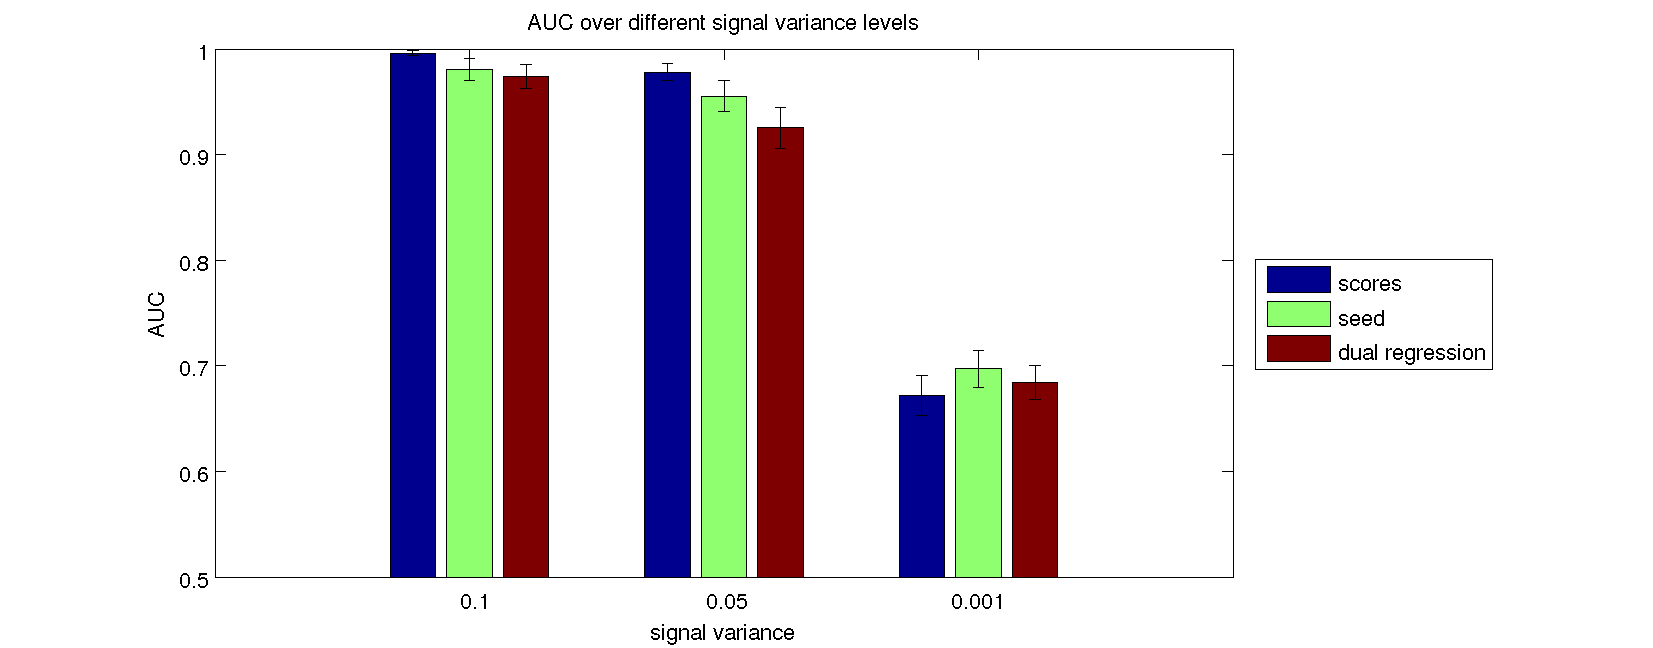
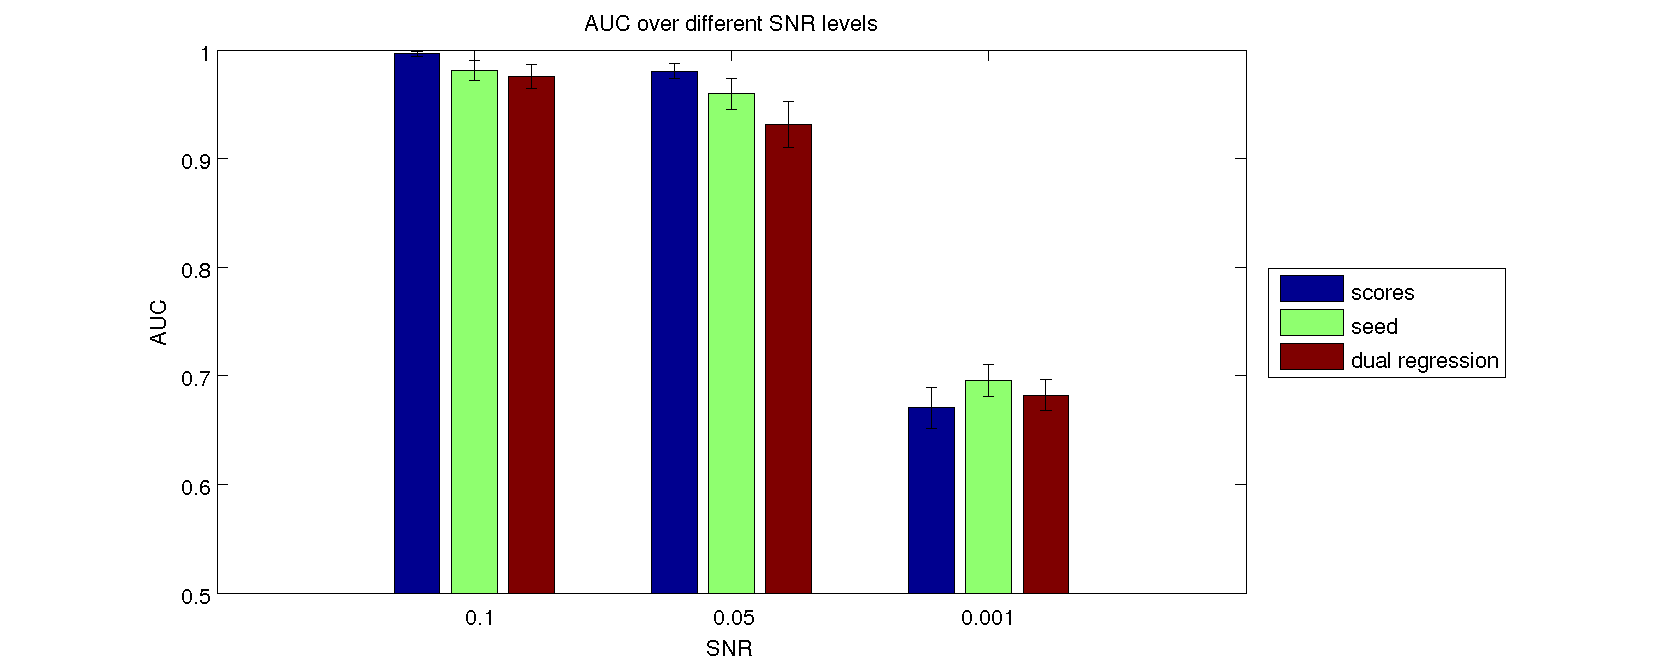
shifted priors right

diff --git a/Scores/Simulation/matlab_noise.m b/Scores/Simulation/matlab_noise.m
@@ -185,7 +185,7 @@ for n_id = 1:3
     xlabel('FPR');
     % labels
     labels = {sprintf('scores (%.3f)', scores_auc), sprintf('seed (%.3f)', seed_auc), sprintf('dual regression (%.3f)', dureg_auc)};
-    title(sprintf('Signal variance %.3f', noise));
+    title(sprintf('SNR %.3f', noise));
     legend(labels, 'Location', 'southeast');
 end
 
@@ -199,13 +199,29 @@ auc_all = [mean(scores_auc_store, 2), mean(seed_auc_store, 2), mean(dureg_auc_st
 std_all = [std(scores_auc_store,[], 2), std(seed_auc_store,[], 2), std(dureg_auc_store,[], 2)];
 barwitherr(std_all, auc_all);
 legend({'scores', 'seed', 'dual regression'}, 'Location', 'eastoutside');
-title('AUC over different signal variance levels');
+title('AUC over different SNR levels');
 set(gca,'xlim',[0 4],'ylim', [0.5 1], 'XTickLabel', cellstr(num2str(noise_levels')));
-xlabel('signal variance');
+xlabel('SNR');
 ylabel('AUC');
 
 set(f_auc, 'PaperPositionMode','auto');
 print(f_auc, [fig_path filesep 'auc_overview.png'], '-dpng');
+
+%% Mass-Univariate Ttest of AUC
+[t1, p1, m1, s1, d1] = niak_ttest(scores_auc_store', seed_auc_store', true);
+% 2 scores-dureg
+[t2, p2, m2, s2, d2] = niak_ttest(scores_auc_store', dureg_auc_store', true);
+% 3 seed-dureg
+[t3, p3, m3, s3, d3] = niak_ttest(seed_auc_store', dureg_auc_store', true);
+
+% Add the pooled variance
+sp1 = ( (( n_perm - 1) .* std(scores_auc_store')) + (( n_perm - 1) .* std(seed_auc_store'))) / (n_perm + n_perm -2);
+sp2 = ( (( n_perm - 1) .* std(scores_auc_store')) + (( n_perm - 1) .* std(dureg_auc_store'))) / (n_perm + n_perm -2);
+sp3 = ( (( n_perm - 1) .* std(seed_auc_store')) + (( n_perm - 1) .* std(dureg_auc_store'))) / (n_perm + n_perm -2);
+% Compute Cohensd
+chd1 = m1 ./ sp1;
+chd2 = m2 ./ sp2;
+chd3 = m3 ./ sp3;
 
 %% Show the maps for the different methods and noise levels
 f_maps = figure('position',[0 0 1000 800]);
@@ -235,7 +251,7 @@ for n_id = 1:3
     niak_visu_matrix(scores_map, opt_v);
     rectangle('Position', pos_vec, 'EdgeColor','w','LineWidth',1);
     set(gca,'XTickLabel', [], 'YTickLabel', []);
-    ylabel(sprintf('noise %.3f', noise));
+    ylabel(sprintf('SNR %.3f', noise));
     if n_id == 1
         title('Scores');
     end
@@ -260,7 +276,7 @@ for n_id = 1:3
         title('Dual Regression');
     end
 end
-suptitle('Corner network maps across different noise levels');
+suptitle('Corner network maps across different SNR levels');
 
 set(f_maps, 'PaperPositionMode','auto');
 print(f_maps, [fig_path filesep 'average_maps.png'], '-dpng');
@@ -304,7 +320,7 @@ for n_id = 1:3
     elseif n_id == 3
         xlabel('threshold');
     end
-    ylabel(sprintf('sig var %.3f', noise));
+    ylabel(sprintf('SNR %.3f', noise));
     
     % Seed
     pos = pos_mat(2, n_id);
@@ -317,7 +333,7 @@ for n_id = 1:3
     plot(ref_thr, seed_tpr, 'g');
     plot(ref_thr, seed_fpr, 'r');
     hold off;
-    legend({'TPR', 'FPR', sprintf('TPR-FPR (%.3f)', seed_ab)}, 'Location', 'southwest');
+    legend({'TPR', 'FPR', sprintf('TPR-FPR (%.3f)', seed_ab)}, 'Location', 'southwest');
     if n_id == 1
         title('Seed');
     elseif n_id == 3

diff --git a/Scores/Simulation/matlab_shifted_prior.m b/Scores/Simulation/matlab_shifted_prior.m
@@ -1,6 +1,6 @@
 clear all; close all;
 %% Make the signal for smooth and shifted prior
-fig_path = '/home/surchs/Code/Projects/Scores/Simulation/figures/shifted';
+fig_path = '/home/surchs/Code/Projects/Scores/Simulation/figures/shifted_right';
 psom_mkdir(fig_path);
 
 edge = 64;
@@ -63,7 +63,7 @@ prior_shift_store = zeros(edge, edge, n_shifts);
 for s_id = 1:n_shifts
     shift = shifts(s_id);
     %% Make the priors
-    prior_shift = circshift(prior_true, [shift shift]);
+    prior_shift = circshift(prior_true, [0 shift]);
     prior_shift_vec = reshape(prior_shift, [dot(edge, edge), 1]);
     prior_shift_vec_store(:, s_id) = prior_shift_vec;
     prior_shift_store(:, :, s_id) = prior_shift;
@@ -503,7 +503,7 @@ end
 % 3 - tests (3: scores/seed, scores/dureg, seed/dureg)
 % 4 - networks
 t_auc_store = zeros(7, n_shifts, 3, n_nets);
-
+q = 0.01;
 for net_id = 1:n_nets
     network_id = networks(net_id);
     net_name = net_names{net_id};
